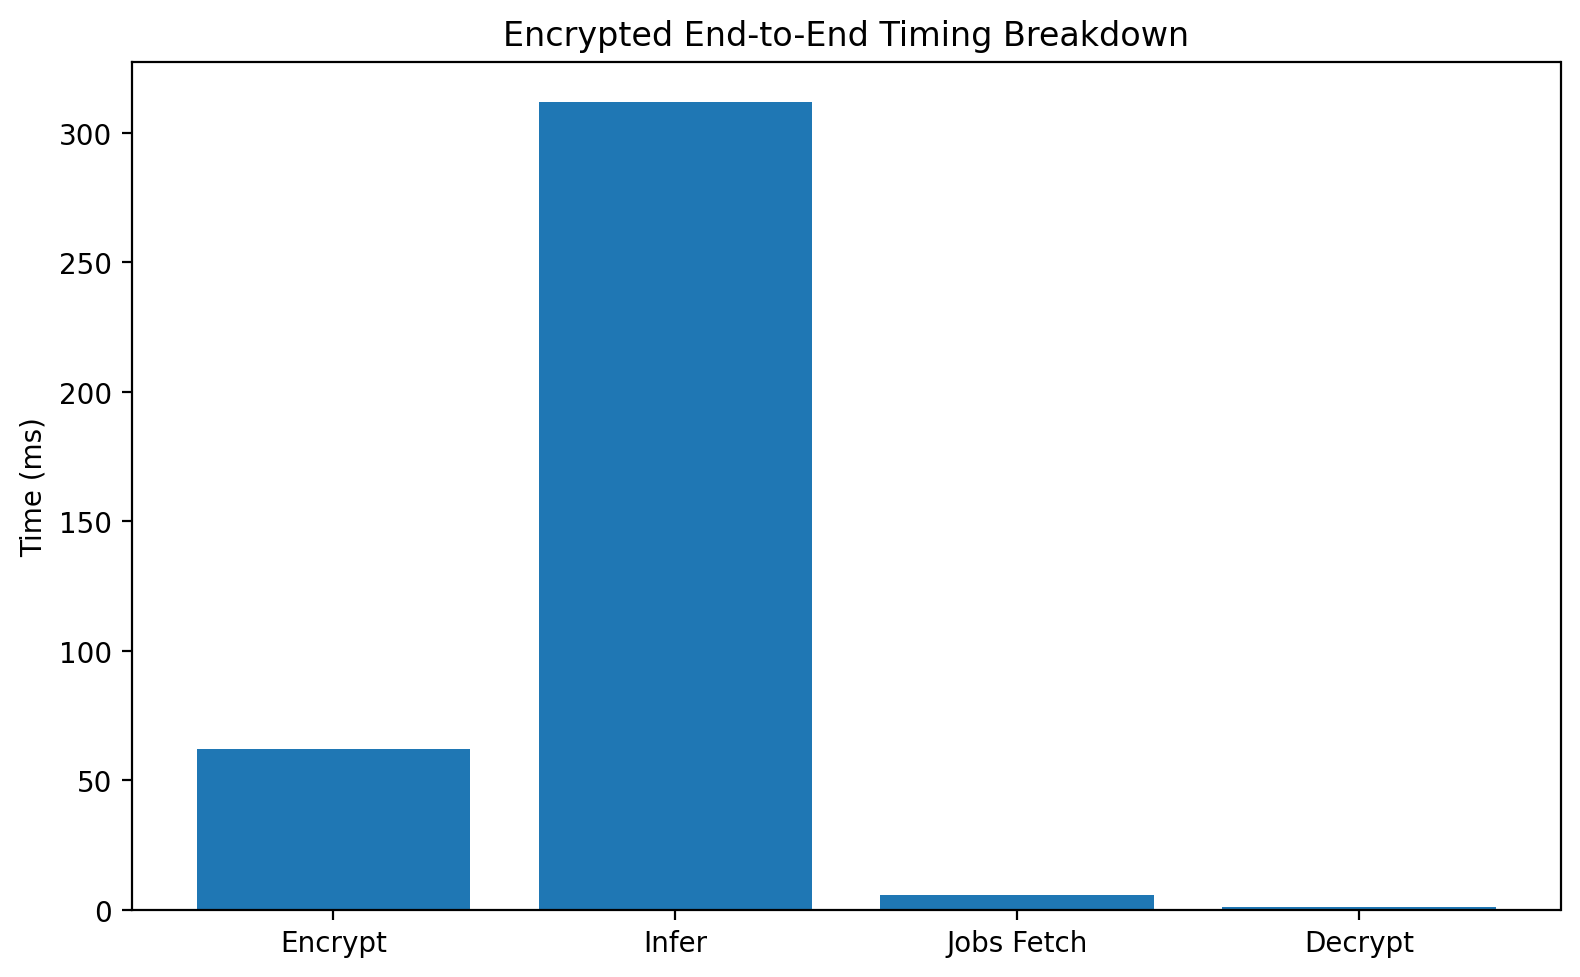
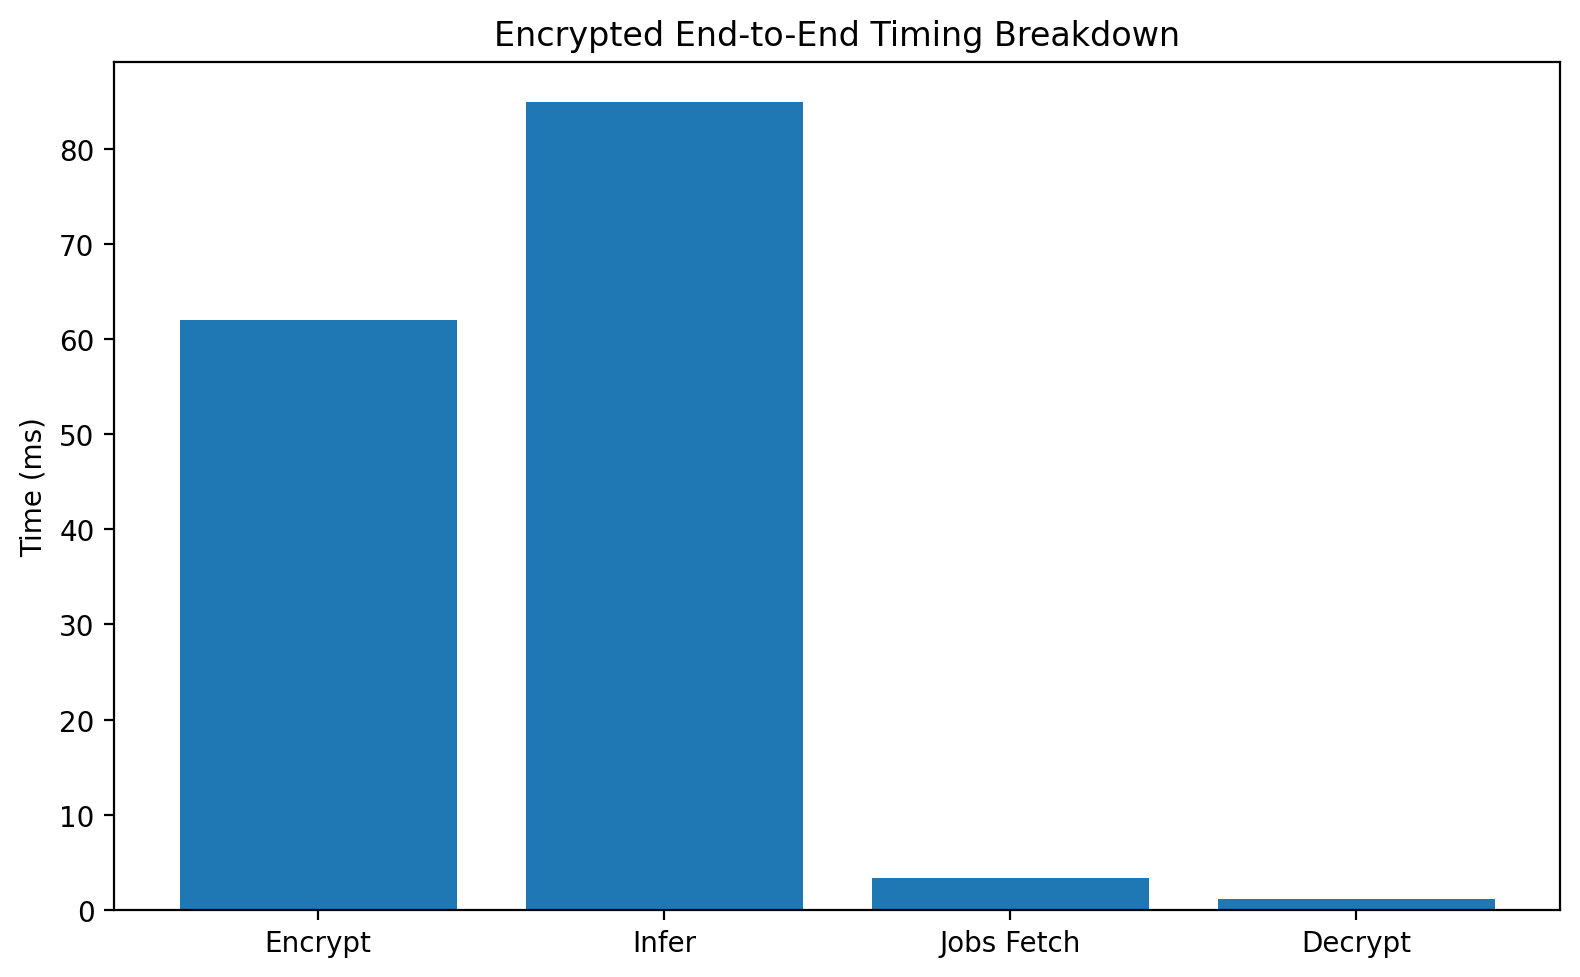
refactor: add server side ckks context caching for faster infer time and throughput

diff --git a/tests/server/test_plain_encrypted_agreement.py b/tests/server/test_plain_encrypted_agreement.py
@@ -1,12 +1,10 @@
 from fastapi.testclient import TestClient
+import numpy as np
+from Pyfhel import PyCtxt
 
 from server.app.main import app
-from server.core.model_registry.registry import MODEL_REGISTRY
 from server.core.crypto.crypto_backends.ckks_pyfhel.context import generate_ckks_context
-import numpy as np
-
-
-client = TestClient(app)
+from server.core.model_registry.registry import MODEL_REGISTRY
 
 
 def _build_crypto_params(model_raw: dict) -> dict:
@@ -17,6 +15,7 @@ def _build_crypto_params(model_raw: dict) -> dict:
         "coeff_modulus_bits": encryption_parameters["coeff_modulus_bits"],
         "scale": encryption_parameters["scale"],
     }
+
 
 def _encrypt_feature_vector(feature_vector: list[float], context) -> list[dict]:
     encrypted_inputs = []
@@ -35,23 +34,22 @@ def _encrypt_feature_vector(feature_vector: list[float], context) -> list[dict]:
 
 
 def _decrypt_single_output(payload_hex: str, context) -> float:
-    from Pyfhel import PyCtxt
-
     ct = PyCtxt(pyfhel=context, bytestring=bytes.fromhex(payload_hex))
     decrypted = context.decryptFrac(ct)
 
-    # Pyfhel may return a scalar-like value or a sequence depending on packing.
     if isinstance(decrypted, (list, tuple)):
         return float(decrypted[0])
 
     try:
         return float(decrypted)
     except TypeError:
-        # Handles numpy-like arrays
         return float(decrypted[0])
 
 
 def test_plain_and_encrypted_inference_agree():
+    app.dependency_overrides.clear()
+    client = TestClient(app)
+
     model_id = "logistic_v1"
     version = "1.0.0"
 
@@ -70,12 +68,11 @@ def test_plain_and_encrypted_inference_agree():
             "inputs": feature_vector,
         },
     )
-
     assert plain_response.status_code == 200, plain_response.text
     plain_body = plain_response.json()
     plain_output = float(plain_body["outputs"][0])
 
-    # 2. Build CKKS context for the same model
+    # 2. Build client-side CKKS context
     crypto_params = _build_crypto_params(model_raw)
     context = generate_ckks_context(crypto_params)
     context.keyGen()
@@ -93,7 +90,6 @@ def test_plain_and_encrypted_inference_agree():
             "inputs": encrypted_inputs,
         },
     )
-
     assert infer_response.status_code == 200, infer_response.text
     infer_body = infer_response.json()
     job_id = infer_body["job_id"]
@@ -102,8 +98,6 @@ def test_plain_and_encrypted_inference_agree():
     job_response = client.get(f"/jobs/{job_id}")
     assert job_response.status_code == 200, job_response.text
     job_body = job_response.json()
-
-    # CHANGE THIS LINE ONLY if your jobs route wraps payload differently
     result_payload = job_body["result"]["payload"]
 
     # 6. Decrypt encrypted output
@@ -111,3 +105,5 @@ def test_plain_and_encrypted_inference_agree():
 
     # 7. Compare outputs
     assert abs(plain_output - encrypted_output) < 1e-3
+
+    app.dependency_overrides.clear()

diff --git a/server/app/routes/infer.py b/server/app/routes/infer.py
@@ -3,7 +3,6 @@ from jsonschema import ValidationError as JsonSchemaValidationError
 
 from server.core.crypto.backend import CryptoBackend
 from server.core.crypto.ciphertxt_validation import validate_ciphertext_structure
-from server.core.crypto.crypto_backends.ckks_pyfhel.context import generate_ckks_context
 from server.core.crypto.dependencies import get_crypto_backend
 from server.core.he_execution.logistic import evaluate_encrypted_logistic
 from server.core.jobs.queue import complete_job, create_job, start_job
@@ -11,12 +10,9 @@ from server.core.model_registry.registry import MODEL_REGISTRY
 from server.core.protocol.envelope_validation import validate_envelope
 from server.core.security.rate_limits import enforce_infer_rate_limit
 from server.core.security.tenanting import get_tenant_id
-from server.core.crypto.crypto_backends.ckks_pyfhel.context import CKKS_CONTEXT, generate_ckks_context
+from server.core.crypto.context_cache import get_cached_ckks_context
 
 router = APIRouter()
-
-def get_crypto_context():
-    return CKKS_CONTEXT
 
 @router.post("/infer", status_code=status.HTTP_200_OK)
 def infer(
@@ -45,19 +41,24 @@ def infer(
 
     encryption_parameters = model_meta.raw.get("encryption_parameters", {})
     try:
-        crypto_params = {
-            "scheme": model_meta.raw.get("he_scheme", "CKKS"),
-            "poly_modulus_degree": encryption_parameters["poly_modulus_degree"],
-            "coeff_modulus_bits": encryption_parameters["coeff_modulus_bits"],
-            "scale": encryption_parameters["scale"],
-        }
+        context = get_cached_ckks_context(
+            model_meta.raw.get("he_scheme", "CKKS"),
+            encryption_parameters["poly_modulus_degree"],
+            tuple(encryption_parameters["coeff_modulus_bits"]),
+            encryption_parameters["scale"],
+        )
     except KeyError as exc:
         raise HTTPException(
             status_code=500,
             detail=f"Model registry missing CKKS parameter: {exc.args[0]}",
         ) from exc
 
-    context = generate_ckks_context(crypto_params)
+    context = get_cached_ckks_context(
+        model_meta.raw.get("he_scheme", "CKKS"),
+        encryption_parameters["poly_modulus_degree"],
+        tuple(encryption_parameters["coeff_modulus_bits"]),
+        encryption_parameters["scale"],
+    )
 
     constraints = model_meta.raw.get("constraints", {})
     max_batch_size = constraints.get("max_batch_size")

diff --git a/tests/server/conftest.py b/tests/server/conftest.py
@@ -1,5 +1,5 @@
-import sys
 from pathlib import Path
+import sys
 
 ROOT = Path(__file__).resolve().parents[2]
 if str(ROOT) not in sys.path:
@@ -9,48 +9,7 @@ import pytest
 from fastapi.testclient import TestClient
 
 from server.app.main import app
-from server.core.jobs import queue as queue_module
-from server.core.model_registry.loader import ModelDefinition
-
-
-@pytest.fixture
-def sample_model_dict():
-    return {
-        "model_id": "logistic_v1",
-        "version": "1.0.0",
-        "description": "Encrypted logistic regression for binary classification",
-        "he_scheme": "CKKS",
-        "encryption_parameters": {
-            "poly_modulus_degree": 16384,
-            "scale": 1073741824,
-            "coeff_modulus_bits": [60, 30, 30, 60],
-            "max_multiplicative_depth": 2,
-        },
-        "inference": {
-            "input_dimension": 8,
-            "output_dimension": 1,
-            "activation": "polynomial_sigmoid_v1",
-        },
-        "constraints": {
-            "max_batch_size": 16,
-        },
-    }
-
-
-@pytest.fixture
-def sample_model_definition(sample_model_dict):
-    return ModelDefinition(
-        model_id=sample_model_dict["model_id"],
-        version=sample_model_dict["version"],
-        raw=sample_model_dict,
-    )
-
-
-@pytest.fixture(autouse=True)
-def clear_job_state():
-    queue_module.reset_jobs()
-    yield
-    queue_module.reset_jobs()
+from server.core.jobs.queue import reset_jobs
 
 
 @pytest.fixture
@@ -71,10 +30,12 @@ def api_client(monkeypatch, sample_model_definition):
         lambda **kwargs: {"validated": True},
     )
 
+    app.dependency_overrides.clear()
     app.dependency_overrides[infer_route.get_crypto_backend] = lambda: object()
-    app.dependency_overrides[infer_route.get_crypto_context] = lambda: object()
+    reset_jobs()
 
-    with TestClient(app) as client:
-        yield client
+    client = TestClient(app)
+    yield client
 
     app.dependency_overrides.clear()
+    reset_jobs()

diff --git a/tests/conftest.py b/tests/conftest.py
@@ -1,0 +1,50 @@
+from pathlib import Path
+import sys
+from types import SimpleNamespace
+
+import pytest
+
+ROOT = Path(__file__).resolve().parents[1]
+if str(ROOT) not in sys.path:
+    sys.path.insert(0, str(ROOT))
+
+
+@pytest.fixture
+def sample_model_dict() -> dict:
+    return {
+        "model_id": "logistic_v1",
+        "version": "1.0.0",
+        "description": "Reference logistic model",
+        "he_scheme": "CKKS",
+        "encryption_parameters": {
+            "poly_modulus_degree": 16384,
+            "scale": 1073741824.0,
+            "coeff_modulus_bits": [60, 30, 30, 60],
+            "max_multiplicative_depth": 2,
+        },
+        "inference": {
+            "input_dimension": 8,
+            "output_dimension": 1,
+            "activation": "polynomial_sigmoid_v1",
+        },
+        "parameters": {
+            "weights": [0.001] * 8,
+            "bias": 0.0,
+        },
+        "activation_parameters": {
+            "kind": "polynomial_sigmoid_v1",
+            "coefficients": [0.5, 0.15, -0.01],
+        },
+        "constraints": {
+            "max_batch_size": 16,
+        },
+    }
+
+
+@pytest.fixture
+def sample_model_definition(sample_model_dict):
+    return SimpleNamespace(
+        model_id=sample_model_dict["model_id"],
+        version=sample_model_dict["version"],
+        raw=sample_model_dict,
+    )

diff --git a/server/core/crypto/context_cache.py b/server/core/crypto/context_cache.py
@@ -1,0 +1,25 @@
+from __future__ import annotations
+
+from functools import lru_cache
+
+from server.core.crypto.crypto_backends.ckks_pyfhel.context import generate_ckks_context
+
+
+@lru_cache(maxsize=16)
+def get_cached_ckks_context(
+        scheme: str,
+        poly_modulus_degree: int,
+        coeff_modulus_bits: tuple[int, ...],
+        scale: float,
+):
+    crypto_params = {
+        "scheme": scheme,
+        "poly_modulus_degree": poly_modulus_degree,
+        "coeff_modulus_bits": list(coeff_modulus_bits),
+        "scale": scale,
+    }
+    return generate_ckks_context(crypto_params)
+
+
+def clear_ckks_context_cache() -> None:
+    get_cached_ckks_context.cache_clear()

diff --git a/tests/server/test_infer_route.py b/tests/server/test_infer_route.py
@@ -11,7 +11,11 @@ class FakeResultCiphertext:
 
 def _stub_infer_execution(monkeypatch, payload_hex: str = "deadbeef"):
     monkeypatch.setattr(infer_route, "enforce_infer_rate_limit", lambda tenant_id: None)
-    monkeypatch.setattr(infer_route, "generate_ckks_context", lambda params: object())
+    monkeypatch.setattr(
+        infer_route,
+        "get_cached_ckks_context",
+        lambda scheme, poly_modulus_degree, coeff_modulus_bits, scale: object(),
+    )
     monkeypatch.setattr(
         infer_route,
         "validate_ciphertext_structure",

diff --git a/tests/server/test_jobs_route.py b/tests/server/test_jobs_route.py
@@ -12,7 +12,11 @@ class FakeResultCiphertext:
 
 def _stub_infer_execution(monkeypatch, payload_hex: str = "deadbeef"):
     monkeypatch.setattr(infer_route, "enforce_infer_rate_limit", lambda tenant_id: None)
-    monkeypatch.setattr(infer_route, "generate_ckks_context", lambda params: object())
+    monkeypatch.setattr(
+        infer_route,
+        "get_cached_ckks_context",
+        lambda scheme, poly_modulus_degree, coeff_modulus_bits, scale: object(),
+    )
     monkeypatch.setattr(
         infer_route,
         "validate_ciphertext_structure",

diff --git a/tests/server/test_context_cache.py b/tests/server/test_context_cache.py
@@ -1,0 +1,23 @@
+from server.core.crypto.context_cache import (
+    clear_ckks_context_cache,
+    get_cached_ckks_context,
+)
+
+
+def test_get_cached_ckks_context_reuses_same_object():
+    clear_ckks_context_cache()
+
+    context1 = get_cached_ckks_context(
+        "CKKS",
+        16384,
+        (60, 30, 30, 60),
+        1073741824.0,
+    )
+    context2 = get_cached_ckks_context(
+        "CKKS",
+        16384,
+        (60, 30, 30, 60),
+        1073741824.0,
+    )
+
+    assert context1 is context2
